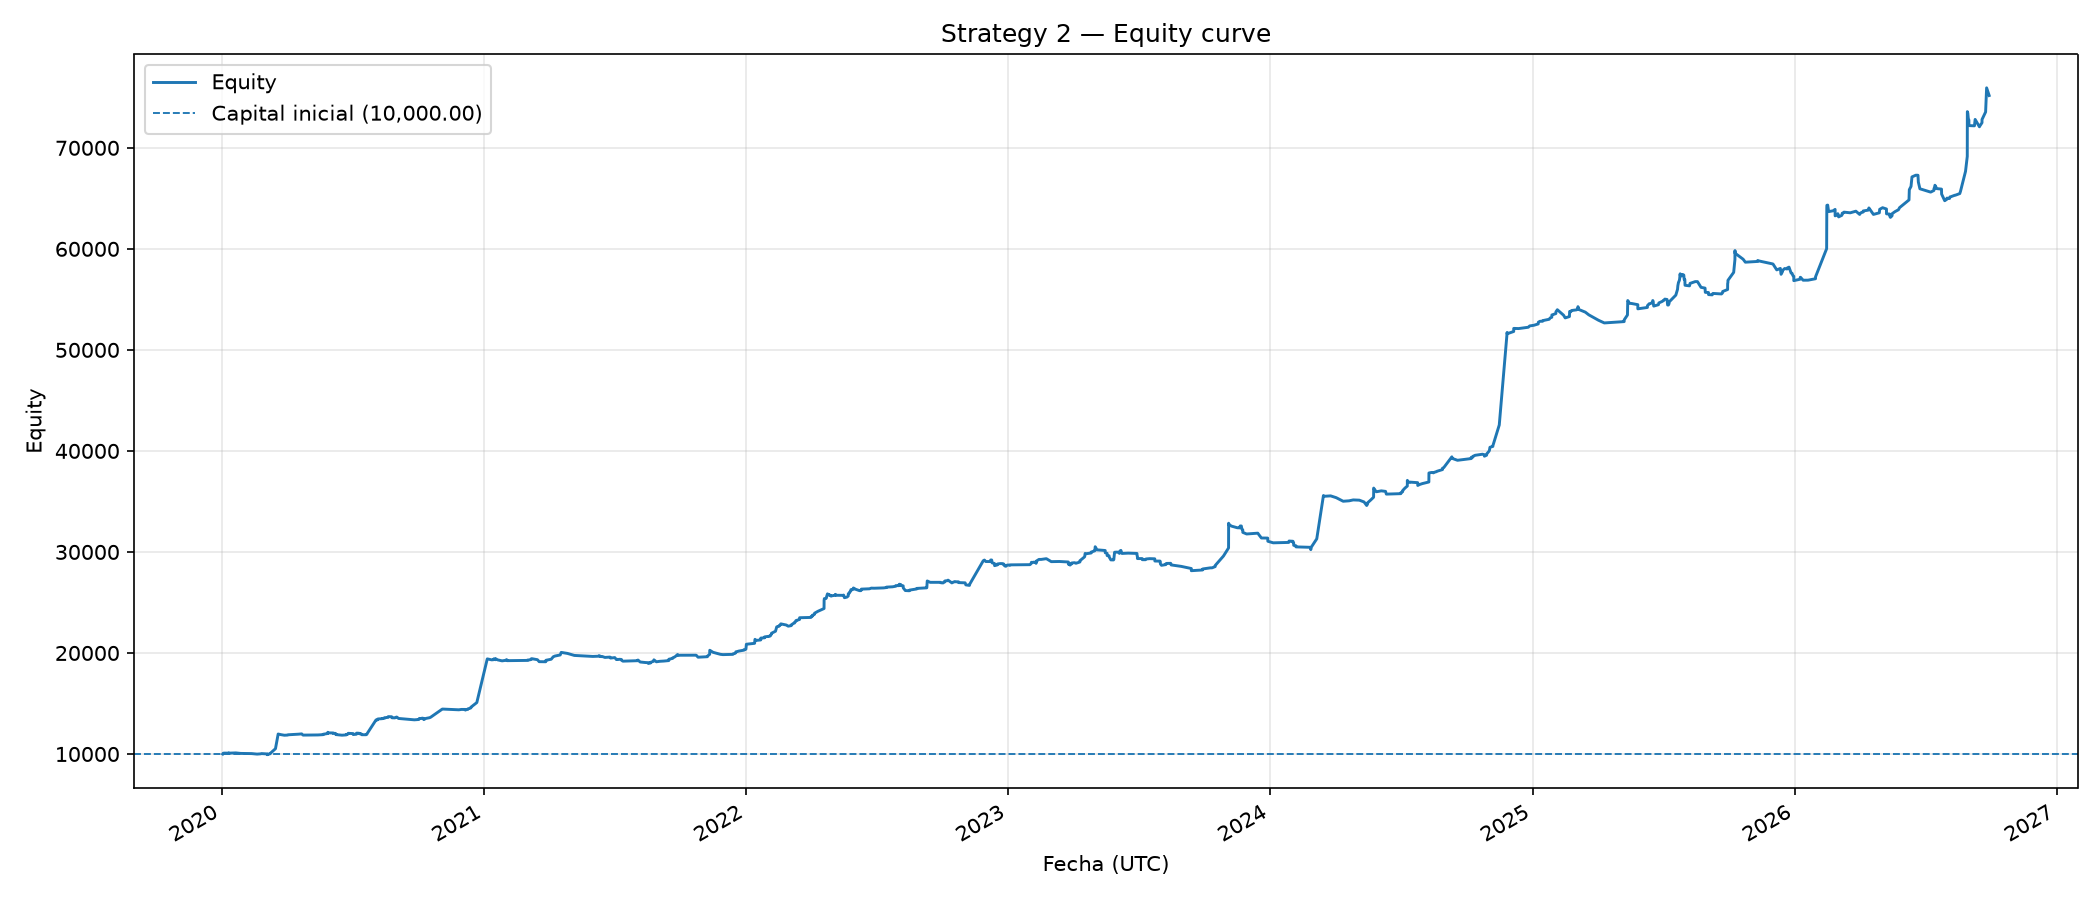
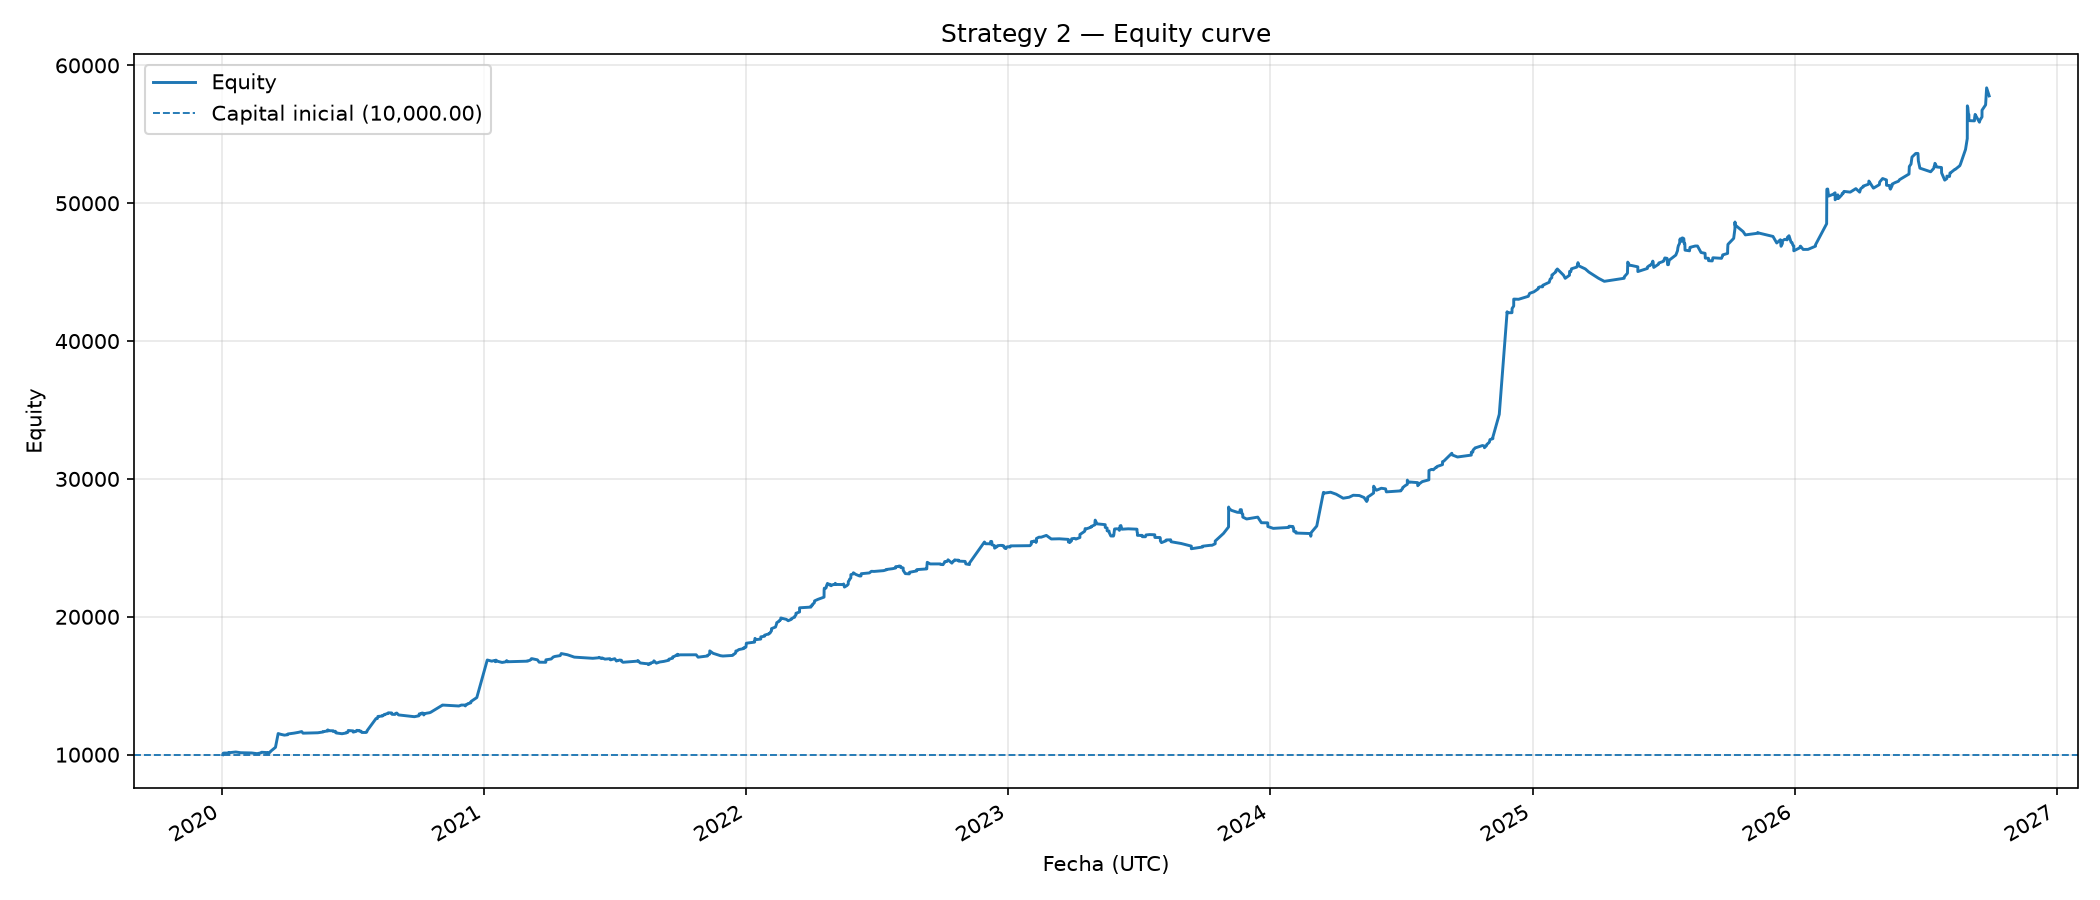
update

diff --git a/backend/services/backtest/bin/legacy/strategy/config.py b/backend/services/backtest/bin/legacy/strategy/config.py
@@ -78,7 +78,7 @@ class Config:
     # stop-loss consecutivos) a cambio de recortar parte del retorno.
     partial_tp_enabled: bool = True
     partial_tp_r: float = 1.0
-    partial_tp_pct: float = 25.0
+    partial_tp_pct: float = 50.0
     # Second partial take-profit (optional). If enabled (>0), it triggers at
     # partial_tp2_r (R-multiple of initial risk) closing partial_tp2_pct of
     # the position. Partial 2 is intended to be at larger distance than TP1.
